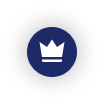
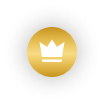
Changed Colors

Changed region(s): [[0.2596, 0.2596, 0.75, 0.75]]

diff --git a/pages/accommodations/[id].vue b/pages/accommodations/[id].vue
@@ -2,7 +2,7 @@
     <NuxtLayout name = "main-pages">
         <div v-if="accFound" class = "font-[Roboto]">
             <!-- {{ (data.data.value?.data as AccDetails).description }} -->
-            <div class = "font-[Roboto] text-center py-5 pb-20 rounded-b-xl bg-[#0A5D00] text-[#1E2968]">
+            <div class = "font-[Roboto] text-center py-5 pb-20 rounded-b-xl bg-primary-green text-[#1E2968]">
                 <img src = "/logo-whitebg.png" class = "mx-auto" alt = "logo"/>
                 <h1 class = 'font-bold text-3xl text-white drop-shadow-lg my-2'>Accommodations</h1>
 
@@ -26,18 +26,18 @@
                     <p class = "mx-auto text-sm text-center w-[80%] my-5 " v-html="formattedDesc3"></p>
                 </div>
 
-                <div class = "mx-auto bg-[#0A5D00] text-center text-white p-5 w-[90%] rounded-lg">
+                <div class = "mx-auto bg-primary-green text-center text-white p-5 w-[90%] rounded-lg">
                     <a :href = "`tel:${(dataBrief.data.value?.data as Accs).phoneNumber}`"><div>Call Us at <span class = "font-bold">+91 {{ (dataBrief.data.value?.data as Accs).phoneNumber?.toString().slice(0, 5) }} {{ (dataBrief.data.value?.data as Accs).phoneNumber?.toString().slice(5) }}</span></div></a>
                 </div>
 
                 <!-- <h1 class = "text-center font-bold mt-5 mb-2">Download The App: </h1>
                 <div class = "flex justify-between w-[90%] gap-5 mx-auto">
-                    <div class = "mx-auto bg-[#0A5D00] text-center text-white p-5 w-[50%] rounded-lg">
+                    <div class = "mx-auto bg-primary-green text-center text-white p-5 w-[50%] rounded-lg">
                         <NuxtLink to="/">
                             <span></span>
                         </NuxtLink>
                     </div>
-                    <div class = "mx-auto bg-[#0A5D00] text-center text-white p-5 w-[50%] rounded-lg">
+                    <div class = "mx-auto bg-primary-green text-center text-white p-5 w-[50%] rounded-lg">
                         <NuxtLink to="/">
                             <span></span>
                         </NuxtLink>
@@ -49,7 +49,7 @@
 
         </div>
         <div v-else>
-            <div class = "font-[Roboto] text-center bg-[#0A5D00] text-white p-20 rounded-b-3xl">
+            <div class = "font-[Roboto] text-center bg-primary-green text-white p-20 rounded-b-3xl">
                 <img src = "/logo-whitebg.png" class = "mx-auto" alt = "logo"/>
                 <h1 class = "text-3xl font-bold my-5">Information On This Accommodation is Unavailable</h1>
                 <NuxtLink to="/accommodations" class = "underline">Go Back To List</NuxtLink>

diff --git a/pages/profile/[id].vue b/pages/profile/[id].vue
@@ -2,12 +2,12 @@
     <div v-if="userExists">
         <NuxtLayout name = "main-pages">
         <div class = "mx-auto text-center font-[Roboto] text-white">
-            <div class = "bg-[#0A5D00] rounded-b-3xl mx-auto w-screen pt-5 pb-10">
+            <div class = "bg-primary-green rounded-b-3xl mx-auto w-screen pt-5 pb-10">
                 <img src ="/logo.png" class = "mx-auto w-[50px]" alt = "acre group logo" />
 
                 <h1 class="font-bold text-white text-3xl md:text-4xl drop-shadow-lg drop-shadow-white my-5">Personal Profile</h1>
-                <div class = "bg-[#1E2968] py-4 my-5 circle-mask">
-                    <img :src = "(userDetails.data.value?.data as UserDetails).DpUrl" class = "w-[60%] circle-mask mx-auto max-w-[700px]" alt = "member pfp"/>
+                <div class = "bg-white bg-gradient-to-b from-primary-gold via-light-gold to-primary-gold  py-4 my-5 circle-mask">
+                    <img :src = "(userDetails.data.value?.data as UserDetails).DpUrl" class = "w-[45%] circle-mask mx-auto" alt = "member pfp"/>
                 </div>
                 <img src = "/PremiumIcon.png" class = "mx-auto my-5 absolute top-0 right-0 mt-[35%] mr-[20%] z-10">
                 <div>

diff --git a/pages/verification/[id].vue b/pages/verification/[id].vue
@@ -43,8 +43,7 @@
         const resp = await useFetch<FetchedResponse | null >(`/api/userDetails/verify?phoneNumber=${phoneNumber.value}&verifCode=${verifCode.value}&cardID=${cardID}`, {
             method : "post"
         })
-
-        console.log(`/api/userDetails/verify?phoneNumber=${phoneNumber.value}&verifCode=${verifCode.value}&cardID=${cardID}`);
+        // console.log(`/api/userDetails/verify?phoneNumber=${phoneNumber.value}&verifCode=${verifCode.value}&cardID=${cardID}`);
         // console.log(resp);
         // console.log(phoneNumber.value)
         // console.log(verifCode.value)

diff --git a/pages/accommodations/index.vue b/pages/accommodations/index.vue
@@ -2,7 +2,7 @@
     <div>
         <NuxtLayout name = "main-pages">
             <div class = "mb-[280px]">
-                <div class = "bg-[#0A5D00] py-5 rounded-b-xl pb-[35%]">
+                <div class = "bg-primary-green py-5 rounded-b-xl pb-[35%]">
                     <img src = "/logo-whitebg.png" class = "mx-auto" alt = "logo"/>
                     <h1 class = "text-white drop-shadow-lg font-bold text-center font-[Roboto] text-3xl mb-10">Accommodations</h1> 
                 </div>

diff --git a/tailwind.config.js b/tailwind.config.js
@@ -10,6 +10,13 @@ module.exports = {
     "./node_modules/flowbite/**/*.{js,ts}"
   ],
   theme: {
+    colors : {
+      'alt-green' : '#208D0F',
+      'primary-green' : '#0A5D00',
+      'circle-silver' : "#D3D3D3",
+      'primary-gold' : '#C69320',
+      'light-gold' : '#EEB60980' 
+    },
     extend: {},
   },
   plugins: [
